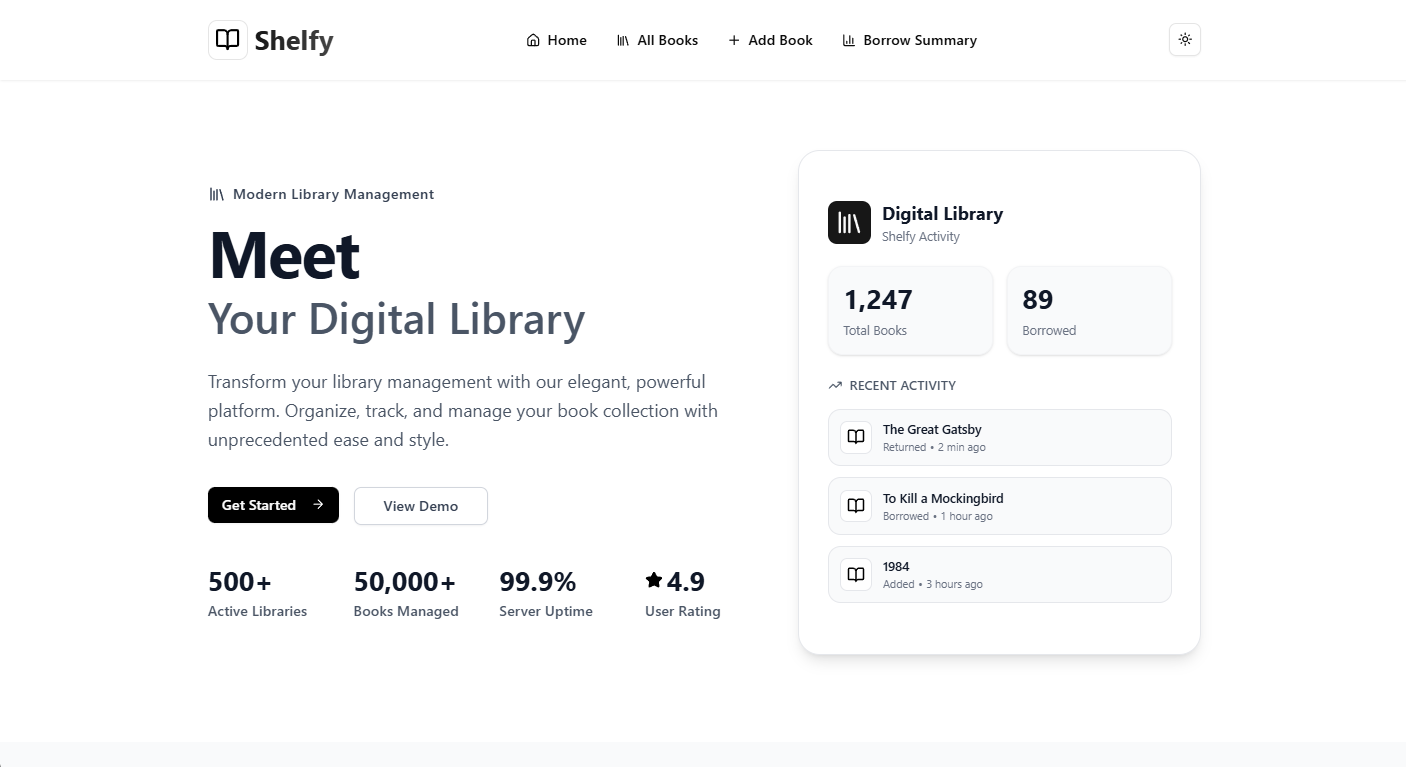
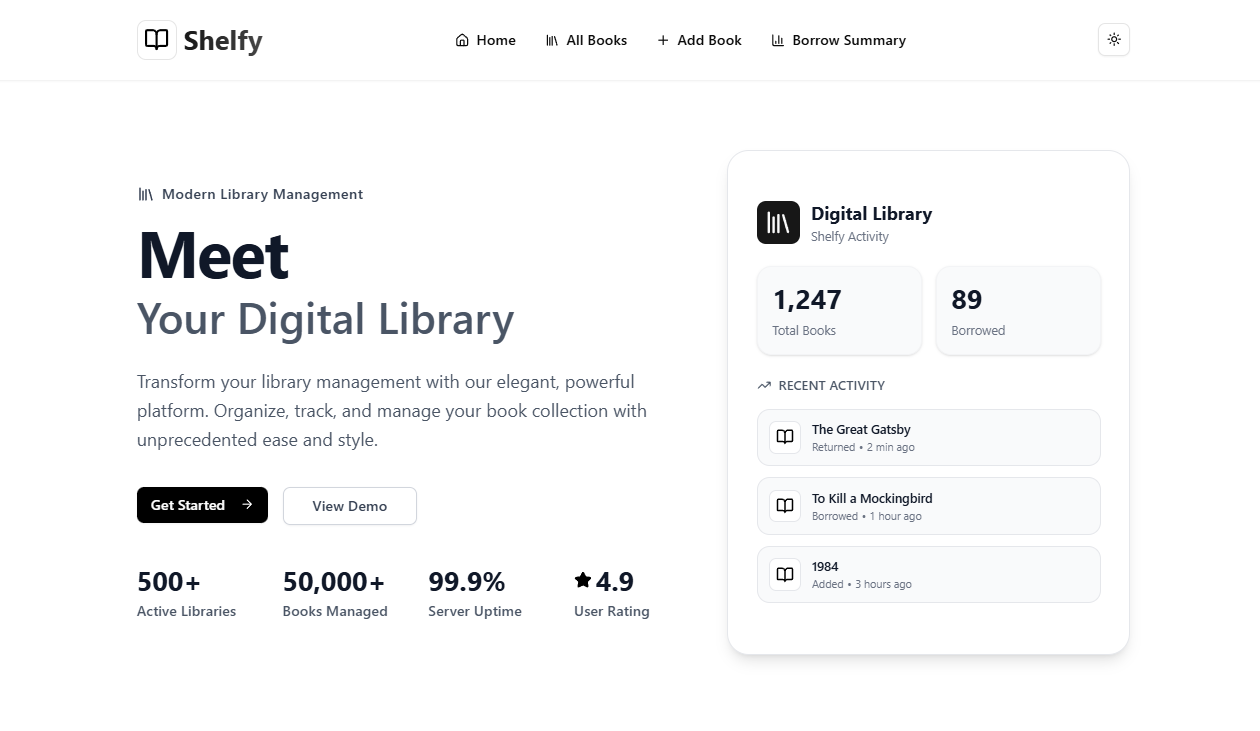
Complete project section with card layout

diff --git a/src/components/home/sections/Projects.tsx b/src/components/home/sections/Projects.tsx
@@ -7,12 +7,7 @@ import { projects } from "@/data/projects";
 // Projects Component
 const Projects = () => {
   return (
-    <section id="projects" className="relative overflow-hidden bg-background py-36">
-      <div className="pointer-events-none absolute inset-0">
-        <div className="absolute -top-20 right-0 h-72 w-72 rounded-full bg-black/5 blur-[120px]" />
-        <div className="absolute -bottom-24 left-10 h-80 w-80 rounded-full bg-black/5 blur-[140px]" />
-      </div>
-
+    <section id="projects" className="relative overflow-hidden bg-background pt-32 pb-20">
       <div className="container relative mx-auto max-w-7xl px-5">
         {/* Title */}
         <div className="text-center text-foreground">
@@ -37,54 +32,73 @@ const Projects = () => {
 
         {/* Projects */}
         <div className="mt-12 grid gap-8 md:grid-cols-2 lg:grid-cols-3">
-          {projects.map((project) => (
-            <article
-              key={project.slug}
-              className="group relative overflow-hidden rounded-3xl border border-black/10 bg-white shadow-[0_20px_50px_-36px_rgba(15,15,15,0.35)] transition-all duration-300 ease-out hover:-translate-y-1 hover:border-black/20 hover:shadow-[0_28px_70px_-40px_rgba(15,15,15,0.45)]"
-            >
-              <div className="relative h-56 overflow-hidden sm:h-64">
-                <Image
-                  src={project.image}
-                  alt={`${project.title} preview`}
-                  fill
-                  className="object-cover object-center transition duration-500 ease-out group-hover:scale-[1.04]"
-                  sizes="(max-width: 1024px) 100vw, 33vw"
-                />
-                <div className="absolute inset-0 bg-gradient-to-tr from-black/30 via-black/0 to-transparent opacity-0 transition-opacity duration-300 group-hover:opacity-100" />
-              </div>
+          {projects.map((project, index) => {
+            const cardNumber = String(index + 1).padStart(2, "0");
 
-              <div className="p-6 text-foreground">
-                <span className="text-[11px] uppercase tracking-[0.3em] text-foreground/50">
-                  {project.category}
-                </span>
-                <h4 className="mt-3 text-xl font-semibold">{project.title}</h4>
+            return (
+              <article
+                key={project.slug}
+                className="group relative pb-8 rounded-2xl border border-black/10 bg-white p-6 shadow-[0_20px_50px_-36px_rgba(15,15,15,0.35)] transition-all duration-300 ease-out hover:-translate-y-1 hover:border-black/20 hover:shadow-[0_28px_70px_-40px_rgba(15,15,15,0.45)]"
+              >
+                <div className="relative rounded-xl border h-48 overflow-hidden sm:h-56">
+                  <Image
+                    src={project.image}
+                    alt={`${project.title} preview`}
+                    fill
+                    className="object-cover object-center transition duration-500 ease-out group-hover:scale-[1.04]"
+                    sizes="(max-width: 1024px) 100vw, 33vw"
+                  />
+                  <div className="absolute inset-0 bg-linear-to-tr from-black/25 via-black/0 to-transparent opacity-0 transition-opacity duration-300 group-hover:opacity-100" />
+                </div>
+
+                <div className="mt-6 flex items-center justify-between gap-4 text-foreground">
+                  <span className="rounded-full border border-black/10 bg-black/[0.03] px-3 py-1 text-[10px] font-semibold uppercase tracking-[0.35em] text-foreground/60">
+                    {project.category}
+                  </span>
+                  <span className="text-4xl font-semibold text-foreground/10">
+                    {cardNumber}
+                  </span>
+                </div>
+
+                <h4 className="mt-3 text-xl font-semibold text-foreground">
+                  {project.title}
+                </h4>
                 <p className="mt-3 text-sm text-foreground/70">
                   {project.summary}
                 </p>
+
+                <ul className="mt-4 space-y-2 text-sm text-foreground/70">
+                  {project.highlights.map((item) => (
+                    <li key={item} className="flex gap-3">
+                      <span className="mt-2 h-1.5 w-1.5 rounded-full bg-foreground/35" />
+                      <span>{item}</span>
+                    </li>
+                  ))}
+                </ul>
 
                 <div className="mt-6 flex flex-wrap gap-3">
                   <Link
                     href={project.links.live}
                     target="_blank"
                     rel="noreferrer"
-                    className="inline-flex items-center gap-2 rounded-full border border-black/10 px-4 py-2 text-xs font-semibold uppercase tracking-[0.2em] text-foreground transition-all duration-200 hover:-translate-y-0.5 hover:border-black/25 hover:bg-black hover:text-white"
+                    className="group/cta inline-flex items-center gap-2 rounded-full border border-black/10 px-4 py-2 text-xs font-semibold uppercase tracking-[0.2em] bg-foreground text-background transition-all duration-200 hover:border-black/25 hover:bg-secondary hover:text-foreground"
                     aria-label={`Visit live site for ${project.title}`}
                   >
                     Visit Live
-                    <ArrowUpRight className="size-4" />
+                    <ArrowUpRight className="size-4 transition-transform duration-300 group-hover/cta:-translate-y-0.5 group-hover/cta:translate-x-0.5" />
                   </Link>
                   <Link
                     href={`/projects/${project.slug}`}
-                    className="inline-flex items-center gap-2 rounded-full border border-black/10 px-4 py-2 text-xs font-semibold uppercase tracking-[0.2em] text-foreground/70 transition-all duration-200 hover:-translate-y-0.5 hover:border-black/25 hover:bg-black/5 hover:text-foreground"
+                    className="group/cta inline-flex items-center gap-2 rounded-full border border-black/10 px-4 py-2 text-xs font-semibold uppercase tracking-[0.2em] text-foreground/70 transition-all duration-200 hover:border-black/25 hover:bg-black/5 hover:text-foreground"
                     aria-label={`View details for ${project.title}`}
                   >
                     View Details
-                    <ArrowUpRight className="size-4" />
+                    <ArrowUpRight className="size-4 transition-transform duration-300 group-hover/cta:-translate-y-0.5 group-hover/cta:translate-x-0.5" />
                   </Link>
                 </div>
-              </div>
-            </article>
-          ))}
+              </article>
+            );
+          })}
         </div>
       </div>
     </section>

diff --git a/src/data/projects.ts b/src/data/projects.ts
@@ -36,13 +36,12 @@ export const projects: Project[] = [
     title: "Lorvic Furniture",
     category: "E-commerce Furniture",
     summary:
-      "A premium furniture storefront focused on storytelling, clean product hierarchy, and conversion-first layout.",
+      "A premium furniture storefront focused on storytelling, clean product hierarchy, and conversion-first flow.",
     description:
-      "Lorvic is a modern furniture storefront built to balance editorial storytelling with product discovery. I focused on typographic rhythm, fast-loading imagery, and a consistent component system to keep the browsing experience sharp and conversion focused.",
+      "Lorvic blends editorial storytelling with product discovery. I focused on typographic rhythm, fast-loading imagery, and a consistent component system to keep browsing sharp and conversion focused.",
     highlights: [
       "Typography-led hero and product focus",
       "Clear CTAs and catalog preview flow",
-      "Responsive layout with visual balance",
     ],
     image: projectOne,
     stack: [
@@ -76,13 +75,12 @@ export const projects: Project[] = [
     title: "Velocia",
     category: "Mobility Platform",
     summary:
-      "A ride-sharing experience with bold dark UI, brand-forward messaging, and a frictionless onboarding flow.",
+      "A ride-sharing experience with bold dark UI, trust-forward messaging, and a frictionless onboarding path.",
     description:
-      "Velocia is a ride-sharing product concept that emphasizes brand clarity, instant trust, and a streamlined onboarding experience. The interface uses depth, contrast, and motion-ready sections to communicate reliability and speed.",
+      "Velocia is a ride-sharing concept that emphasizes brand clarity, instant trust, and a streamlined onboarding experience. The interface uses depth, contrast, and motion-ready sections to communicate reliability and speed.",
     highlights: [
       "Cohesive dark theme with strong contrast",
       "Trust-driven hero messaging and layout",
-      "Motion-ready components for engagement",
     ],
     image: projectTwo,
     stack: [
@@ -113,13 +111,12 @@ export const projects: Project[] = [
     title: "Shelfy",
     category: "Library Dashboard",
     summary:
-      "A clean operational dashboard for library management with analytics, activity tracking, and admin workflows.",
+      "A clean operations dashboard for library management with analytics, activity tracking, and admin workflows.",
     description:
-      "Shelfy is a library management dashboard that brings clarity to daily operations with stats, activity logs, and structured workflows. The UI is designed to surface key information quickly while keeping actions intuitive.",
+      "Shelfy is a library management dashboard that brings clarity to daily operations with stats, activity logs, and structured workflows. The UI surfaces key information quickly while keeping actions intuitive.",
     highlights: [
-      "Data-dense UI with clear readability",
-      "Reusable cards and stat-driven layout",
-      "Streamlined actions for daily ops",
+      "Data-dense UI with clear hierarchy",
+      "Reusable cards and daily workflow actions",
     ],
     image: projectThree,
     stack: [
